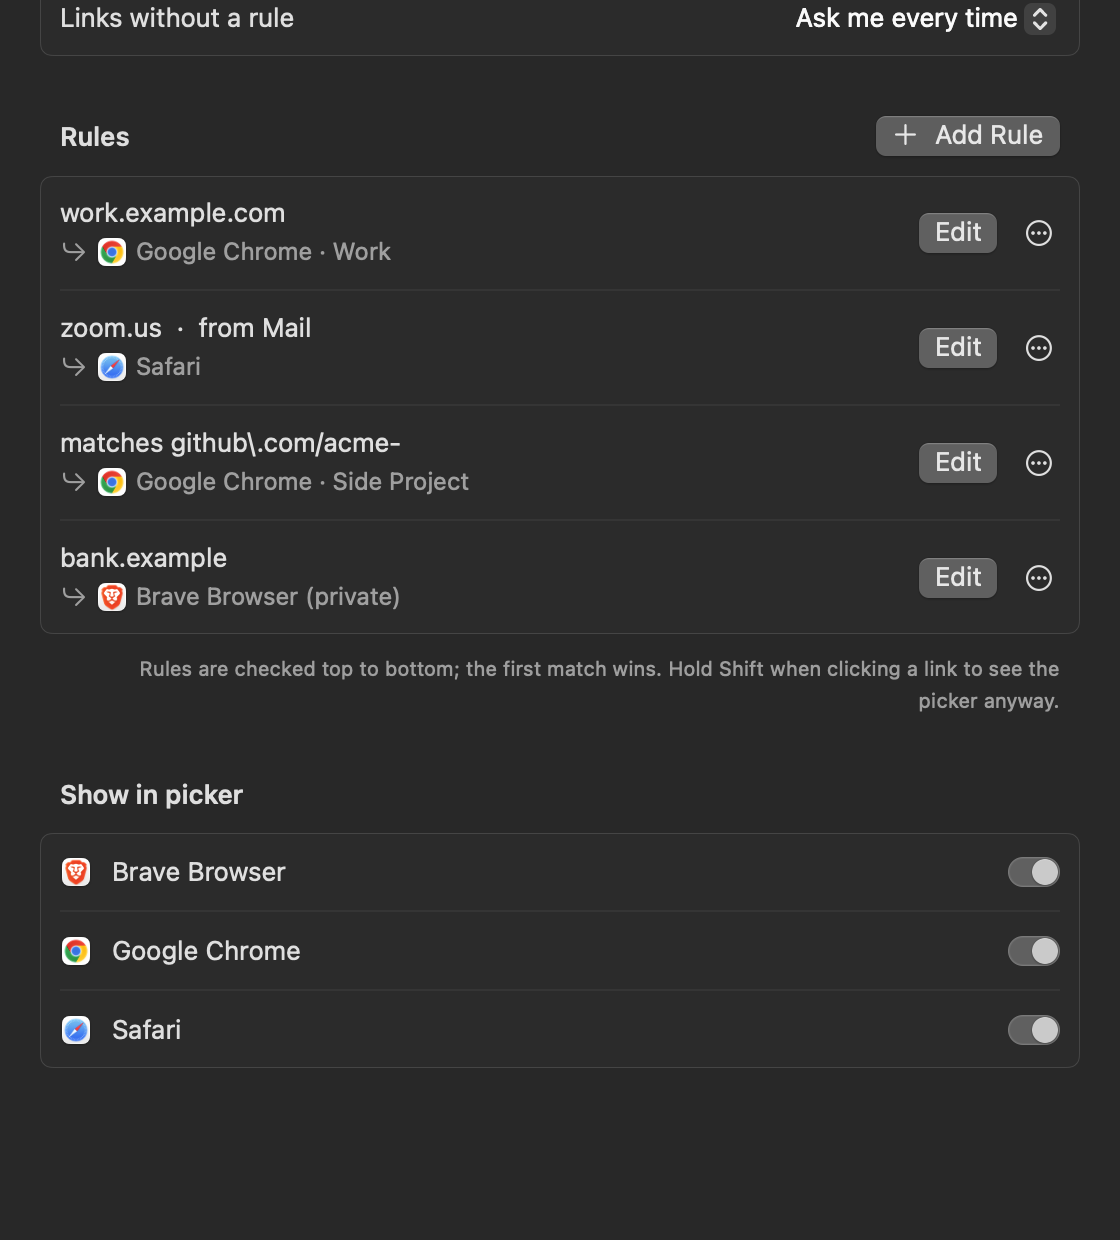
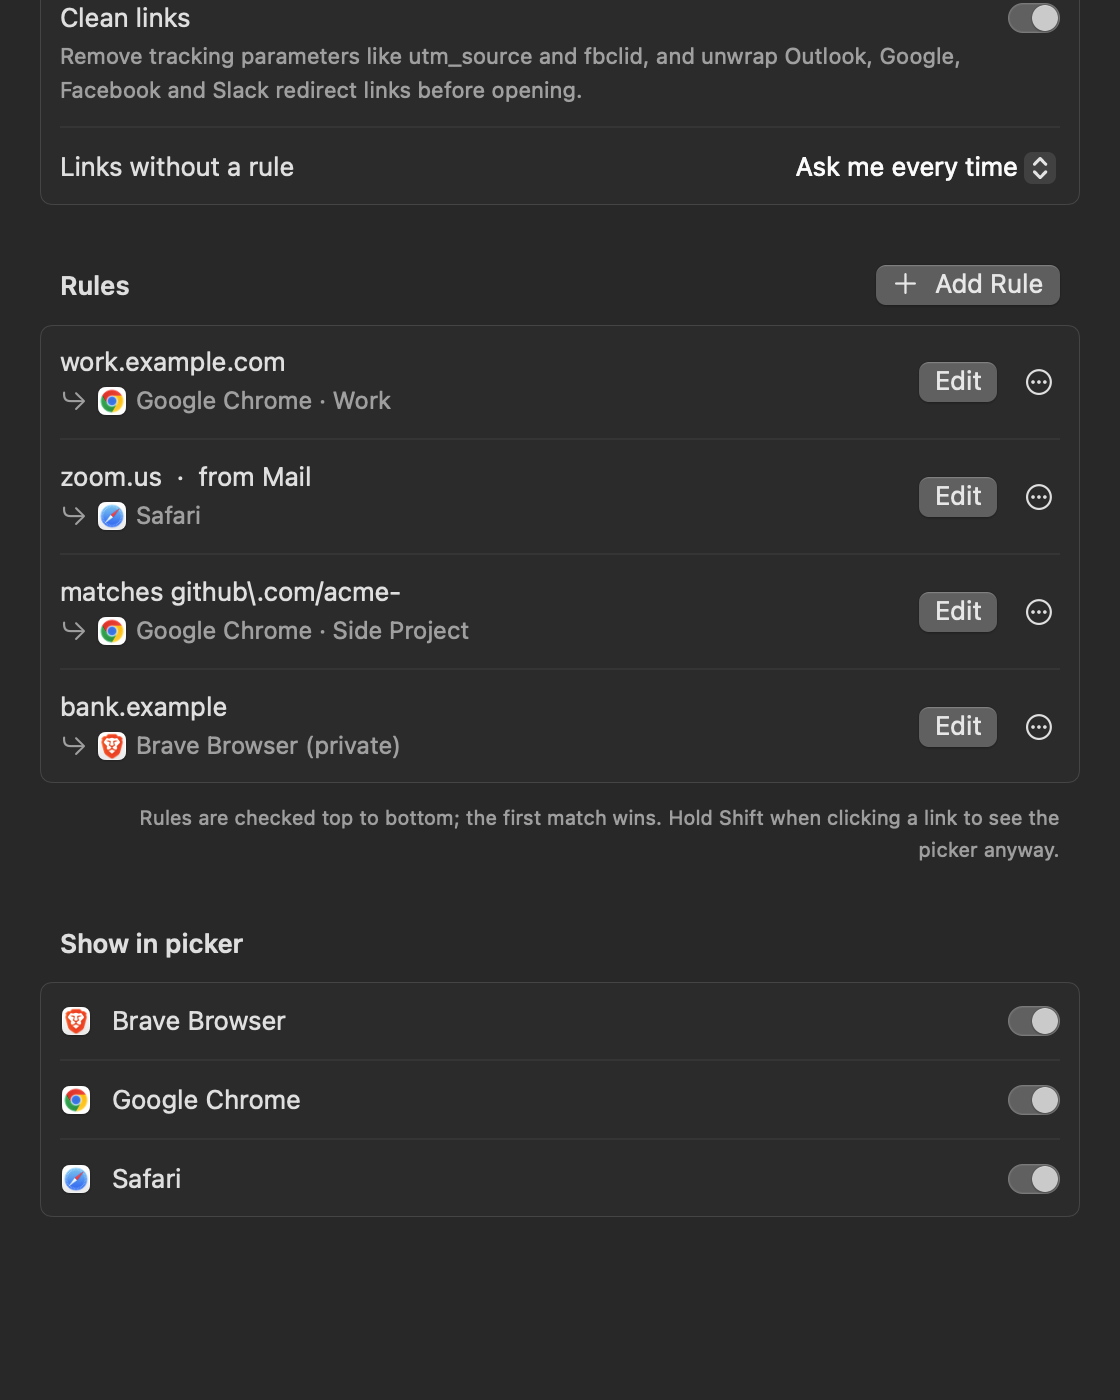
feat: clean links before routing them (#3)
Links arrive wrapped in Outlook SafeLinks and Google or Facebook
redirects and padded with utm_ and click-ID parameters. That noise
follows you into every browser, and wrapped links slip past site rules
because the visible host is the wrapper.

Switchboard now unwraps known redirect wrappers and strips well-known
tracking parameters before rules match, so a github.com rule still
catches a GitHub link inside a SafeLinks wrapper. Site-specific params
(YouTube si, X ref_src, LinkedIn trk) are removed only on their own
sites. Cleanup is local: no short-link expansion, since that would need
network requests. On by default, toggle in Settings or cleanLinks in
the config file. Bumps the version to 0.2.0.

diff --git a/Sources/SwitchboardCore/LinkCleaner.swift b/Sources/SwitchboardCore/LinkCleaner.swift
@@ -1,0 +1,74 @@
+import Foundation
+
+public enum LinkCleaner {
+    static let trackingParameters: Set<String> = [
+        "fbclid", "gclid", "gclsrc", "dclid", "gbraid", "wbraid", "msclkid", "yclid", "twclid", "ttclid",
+        "li_fat_id", "mc_cid", "mc_eid", "_hsenc", "_hsmi", "mkt_tok", "igshid", "vero_id", "vero_conv",
+        "oly_anon_id", "oly_enc_id", "rb_clickid", "_openstat", "srsltid", "ga_source", "ga_medium",
+        "ga_campaign", "ga_content", "ga_term",
+    ]
+
+    static let trackingPrefixes = ["utm_"]
+
+    static let siteParameters: [String: Set<String>] = [
+        "youtube.com": ["si", "pp", "feature"],
+        "youtu.be": ["si", "feature"],
+        "instagram.com": ["igsh"],
+        "spotify.com": ["si"],
+        "twitter.com": ["ref_src", "ref_url", "s", "t"],
+        "x.com": ["ref_src", "ref_url", "s", "t"],
+        "linkedin.com": ["trk", "trackingid", "lipi"],
+    ]
+
+    static let redirectWrappers: [(host: String, path: String?, parameter: String)] = [
+        ("safelinks.protection.outlook.com", nil, "url"),
+        ("google.com", "/url", "q"),
+        ("google.com", "/url", "url"),
+        ("l.facebook.com", "/l.php", "u"),
+        ("lm.facebook.com", "/l.php", "u"),
+        ("l.instagram.com", nil, "u"),
+        ("linkedin.com", "/redir/redirect", "url"),
+        ("slack-redir.net", "/link", "url"),
+        ("youtube.com", "/redirect", "q"),
+        ("l.messenger.com", "/l.php", "u"),
+    ]
+
+    public static func clean(_ url: URL) -> URL {
+        stripTracking(unwrap(url))
+    }
+
+    static func unwrap(_ url: URL, depth: Int = 0) -> URL {
+        guard depth < 4,
+              let components = URLComponents(url: url, resolvingAgainstBaseURL: false),
+              let host = components.host?.lowercased()
+        else { return url }
+        for wrapper in redirectWrappers where Rule.host(host, isWithin: wrapper.host) {
+            if let path = wrapper.path, components.path != path { continue }
+            guard
+                let value = components.queryItems?.first(where: { $0.name == wrapper.parameter })?.value,
+                let target = URL(string: value),
+                let scheme = target.scheme?.lowercased(), scheme == "http" || scheme == "https",
+                target.host != nil
+            else { continue }
+            return unwrap(target, depth: depth + 1)
+        }
+        return url
+    }
+
+    static func stripTracking(_ url: URL) -> URL {
+        guard var components = URLComponents(url: url, resolvingAgainstBaseURL: false),
+              let items = components.percentEncodedQueryItems, !items.isEmpty
+        else { return url }
+        let host = components.host?.lowercased() ?? ""
+        let siteSpecific = siteParameters.first { Rule.host(host, isWithin: $0.key) }?.value ?? []
+        let kept = items.filter { item in
+            let name = item.name.lowercased()
+            return !trackingParameters.contains(name)
+                && !siteSpecific.contains(name)
+                && !trackingPrefixes.contains(where: name.hasPrefix)
+        }
+        guard kept.count != items.count else { return url }
+        components.percentEncodedQueryItems = kept.isEmpty ? nil : kept
+        return components.url ?? url
+    }
+}

diff --git a/Sources/SwitchboardSelfCheck/main.swift b/Sources/SwitchboardSelfCheck/main.swift
@@ -56,6 +56,20 @@ remembering.remember(host: "www.github.com", target: work)
 check(remembering.rules.count == 2, "remembering replaces the plain rule for that host")
 check(remembering.rules.first == Rule(hosts: ["github.com"], open: work), "remembered rule goes first")
 
+func cleaned(_ string: String) -> String { LinkCleaner.clean(URL(string: string)!).absoluteString }
+check(cleaned("https://example.com/a?utm_source=x&id=7&fbclid=abc") == "https://example.com/a?id=7", "tracking params removed, real ones kept")
+check(cleaned("https://example.com/a?utm_medium=email&gclid=1") == "https://example.com/a", "query dropped when only tracking remains")
+check(cleaned("https://example.com/a?q=hello%20world&utm_campaign=z") == "https://example.com/a?q=hello%20world", "kept values stay percent-encoded")
+check(cleaned("https://youtu.be/abc?si=TRACK&t=42") == "https://youtu.be/abc?t=42", "site-specific param removed, timestamp kept")
+check(cleaned("https://example.com/a?si=keep") == "https://example.com/a?si=keep", "site-specific params only apply to their site")
+check(cleaned("https://nam12.safelinks.protection.outlook.com/?url=https%3A%2F%2Fgithub.com%2Facme%3Futm_source%3Dmail&data=x") == "https://github.com/acme", "SafeLinks unwrapped then cleaned")
+check(cleaned("https://www.google.com/url?q=https://example.com/page&sa=D") == "https://example.com/page", "Google redirect unwrapped")
+check(cleaned("https://l.facebook.com/l.php?u=https%3A%2F%2Fexample.com%2F&h=AT0") == "https://example.com/", "Facebook redirect unwrapped")
+check(cleaned("https://www.google.com/search?q=switchboard") == "https://www.google.com/search?q=switchboard", "non-redirect Google URLs untouched")
+check(cleaned("https://www.google.com/url?q=javascript:alert(1)") == "https://www.google.com/url?q=javascript:alert(1)", "non-http redirect targets are not followed")
+check(cleaned("https://example.com/page#utm_source=x") == "https://example.com/page#utm_source=x", "fragments untouched")
+check(try! JSONDecoder().decode(Config.self, from: Data("{}".utf8)).cleanLinks, "link cleanup defaults to on")
+
 if failures > 0 {
     print("\(failures) check(s) failed")
     exit(1)

diff --git a/Sources/SwitchboardCore/Config.swift b/Sources/SwitchboardCore/Config.swift
@@ -64,13 +64,15 @@ public struct Config: Codable, Equatable {
     public var defaultTarget: Target?
     public var rules: [Rule]
     public var hiddenBrowsers: [String]
+    public var cleanLinks: Bool
 
     public static let empty = Config()
 
-    public init(defaultTarget: Target? = nil, rules: [Rule] = [], hiddenBrowsers: [String] = []) {
+    public init(defaultTarget: Target? = nil, rules: [Rule] = [], hiddenBrowsers: [String] = [], cleanLinks: Bool = true) {
         self.defaultTarget = defaultTarget
         self.rules = rules
         self.hiddenBrowsers = hiddenBrowsers
+        self.cleanLinks = cleanLinks
     }
 
     public init(from decoder: Decoder) throws {
@@ -78,6 +80,7 @@ public struct Config: Codable, Equatable {
         defaultTarget = try container.decodeIfPresent(Target.self, forKey: .defaultTarget)
         rules = try container.decodeIfPresent([Rule].self, forKey: .rules) ?? []
         hiddenBrowsers = try container.decodeIfPresent([String].self, forKey: .hiddenBrowsers) ?? []
+        cleanLinks = try container.decodeIfPresent(Bool.self, forKey: .cleanLinks) ?? true
     }
 
     public func target(for url: URL, sourceApp: String?) -> Target? {

diff --git a/Sources/Switchboard/Settings.swift b/Sources/Switchboard/Settings.swift
@@ -156,6 +156,10 @@ struct SettingsView: View {
                         Button("Make Default") { model.makeDefault() }
                     }
                 }
+                Toggle(isOn: $model.config.cleanLinks) {
+                    Text("Clean links")
+                    Text("Remove tracking parameters like utm_source and fbclid, and unwrap Outlook, Google, Facebook and Slack redirect links before opening.")
+                }
                 Picker("Links without a rule", selection: model.defaultTargetID) {
                     Text("Ask me every time").tag("")
                     Divider()

diff --git a/Sources/Switchboard/Routing.swift b/Sources/Switchboard/Routing.swift
@@ -144,8 +144,9 @@ enum Launcher {
 final class Router {
     private let picker = PickerController()
 
-    func route(_ url: URL, sourceApp: String?) {
+    func route(_ incoming: URL, sourceApp: String?) {
         let (config, error) = ConfigStore.load()
+        let url = config.cleanLinks ? LinkCleaner.clean(incoming) : incoming
         let forcePicker = NSEvent.modifierFlags.contains(.shift)
         if !forcePicker,
            let target = config.target(for: url, sourceApp: sourceApp) ?? config.defaultTarget,

diff --git a/README.md b/README.md
@@ -9,6 +9,7 @@ Use it to:
 - send Google Meet, Zoom or GitHub links to the browser you keep for them
 - open links from a specific app (like Slack) in a specific browser or profile
 - open some sites in a private or incognito window by default
+- strip tracking junk like `utm_source` and `fbclid`, and skip Outlook SafeLinks and other redirect wrappers
 
 **[Download Switchboard](../../releases/latest)** · [Website](https://dev.adityarajsingh.com/switchboard/) · [Compare Mac browser pickers](https://dev.adityarajsingh.com/switchboard/comparison/)
 
@@ -23,7 +24,8 @@ Use it to:
 - **Rules.** Send links to a browser by site, by URL pattern, or by the app you clicked them in.
 - **Remember with ⌘.** Hold `⌘` while picking a browser to always open that site there.
 - **Private windows.** Hold `⌥` while picking, or set a rule to always open privately (Chromium and Firefox families).
-- **No account and no network access.** Your settings stay in one local JSON file.
+- **Link cleanup.** Removes tracking parameters (`utm_*`, `fbclid`, `gclid`, `msclkid` and more) and unwraps Outlook SafeLinks, Google, Facebook, Instagram, LinkedIn, Slack and YouTube redirect links before your rules run. On by default.
+- **No account and no network access.** Your settings stay in one local JSON file. Link cleanup happens on your Mac and never looks anything up online.
 
 ## Install
 
@@ -45,6 +47,7 @@ Open Settings from the menu-bar icon (**Settings…**, `⌘,`), or open the app 
   <img src="docs/settings.png" width="560" alt="Switchboard settings with four rules">
 </p>
 
+- **Clean links:** turn link cleanup on or off.
 - **Links without a rule:** ask every time, or always use one browser or profile.
 - **Rules:** add, edit, reorder and delete rules. Rules are checked top to bottom, and the first match wins.
 - **Show in picker:** hide apps that registered for web links but aren't browsers.
@@ -74,6 +77,7 @@ Settings saves everything to `~/Library/Application Support/Switchboard/config.j
 
 ```json
 {
+  "cleanLinks": true,
   "defaultTarget": null,
   "hiddenBrowsers": ["com.example.NotABrowser"],
   "rules": [
@@ -90,6 +94,7 @@ Settings saves everything to `~/Library/Application Support/Switchboard/config.j
 - `sourceApps` lists the bundle IDs of the apps the link may come from.
 - `profile` is the Chromium profile directory (`Default`, `Profile 1`, …), not its display name.
 - `defaultTarget` opens unmatched links without the picker. Leave it `null` to always ask.
+- `cleanLinks` removes tracking parameters and unwraps redirect links before rules match. Defaults to `true`.
 
 To find an app's bundle ID, run `osascript -e 'id of app "Google Chrome"'`.
 
